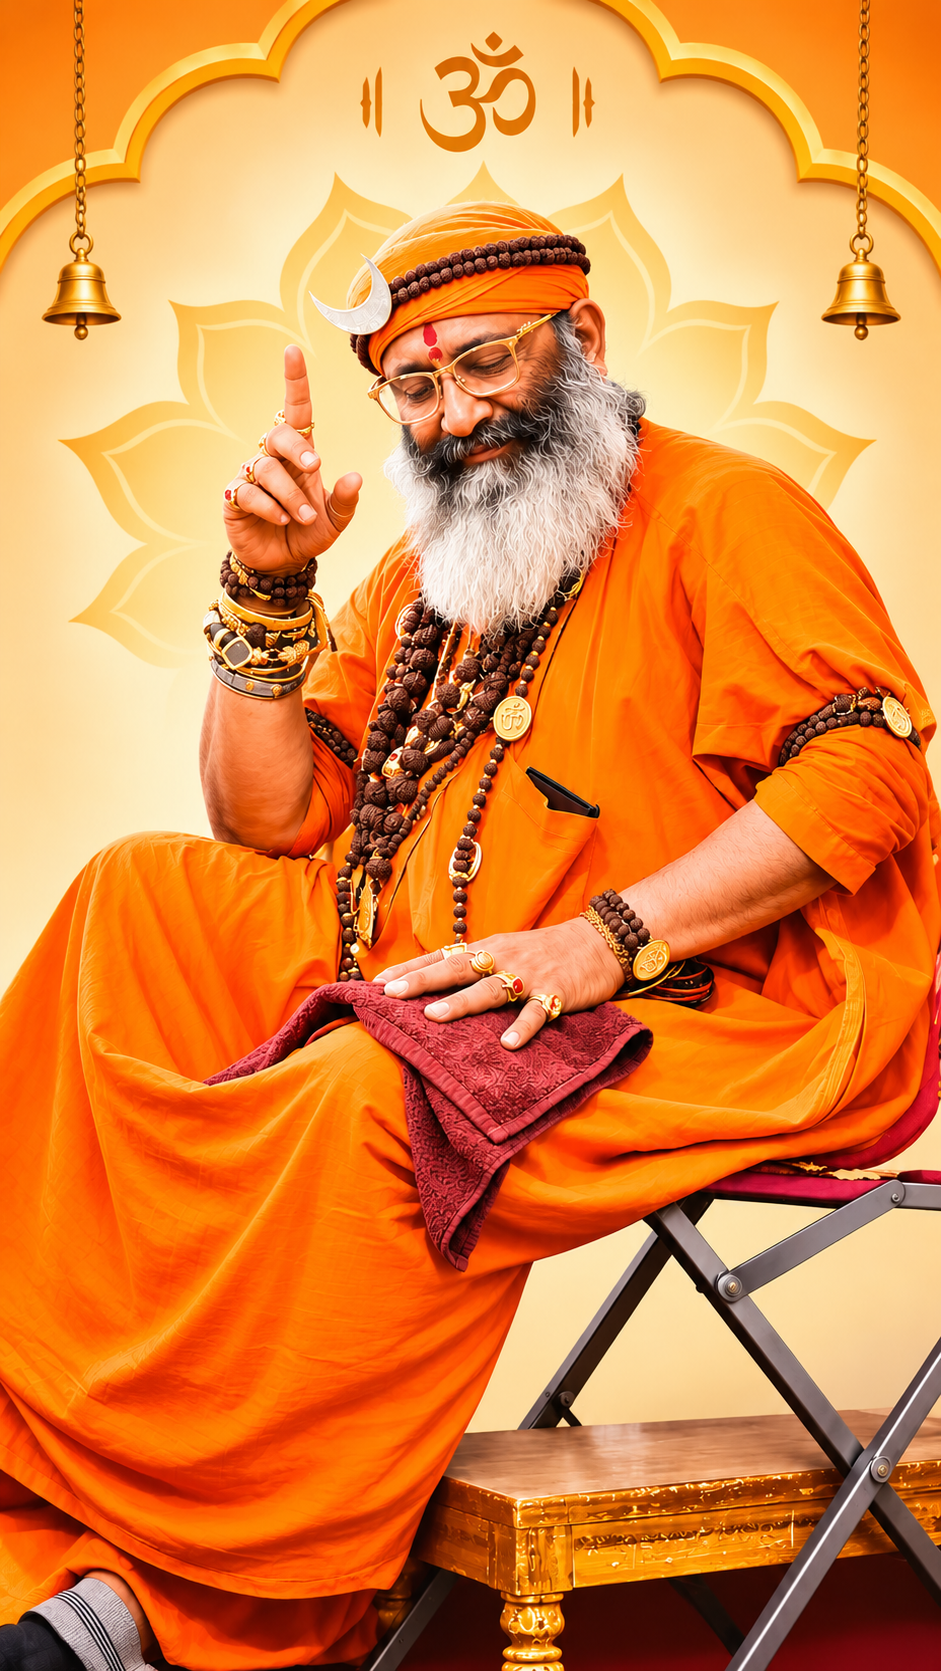
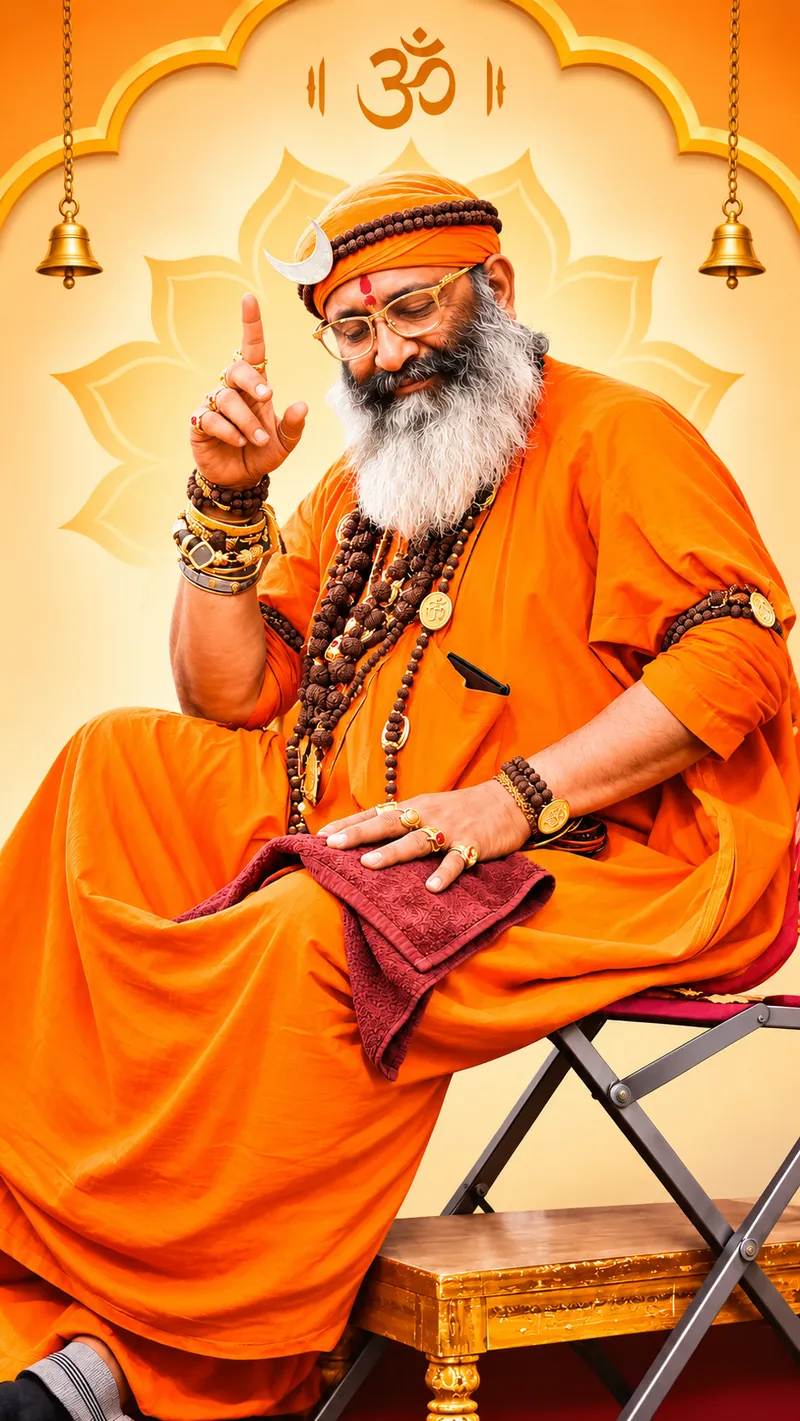
Events page: code review fixes, optimized images, maroon ring on annual cards
- Annual functions: hover and keyboard focus tracked separately, previous slide kept in state, stop button (shown on Tab), posters load eagerly, arrows below the cards up to 1199px, large-card breakpoint at 1320px, maroon ring on the nameplates
- next.config.js: long asset cache header only in production
- Images: annual posters, regular event pictures and banner artwork re-encoded (13.5 MB to 0.8 MB, no visible loss), picture size attributes updated

diff --git a/app/karyakram/_components/AnnualEvents/AnnualEvents.js b/app/karyakram/_components/AnnualEvents/AnnualEvents.js
@@ -1,5 +1,5 @@
 'use client'
-import { useEffect, useRef, useState } from "react"
+import { useEffect, useState } from "react"
 import { SectionHead } from "../../../_shared/_components/Field/Field"
 import field from "../../../_shared/_components/Field/Field.module.css"
 import { cx, useReducedMotion } from "../../../_shared/_components/utils"
@@ -7,18 +7,12 @@ import styles from "./AnnualEvents.module.css"
 
 /* =============================================================================
    Karyakram: the festivals the math celebrates every year, as a carousel on the maroon field: the whole poster of
-   the festival (nothing cut off) in a thick gold border with a black gap inside it, and its title on a nameplate in the same make (gold border, black
+   the festival (nothing cut off) in a thick gold border with a maroon gap inside it, and its title on a nameplate in the same make (gold border, maroon
    gap, gold plate) with a round medallion (a Font Awesome icon) on its top edge, half over the poster's lower edge. All cards are the same size, side by side: the one in focus in the middle with the previous and the next one
    on either side; every step moves them all along, round and round.
    It moves on by itself every 5 seconds (not while a mouse pointer or the keyboard focus is on it: a touch or a click does not hold it, and not at all if the visitor
    asks for reduced motion), and has an arrow at each side on a desktop (a pair below the cards on a tablet and a phone). 'use client' is needed for that.
    Styles: AnnualEvents.module.css.
-
-   Four more festivals have posters but are not shown yet (add them to FESTIVALS to show them):
-     event-4.webp  श्री गुरुपौर्णिमा उत्सव
-     event-5.webp  श्री जनू काका जयंती आणि पुण्यतिथी
-     event-6.webp  श्री मधू बुवा जयंती आणि पुण्यतिथी
-     event-7.webp  श्री शुभांगी माई वाढदिवस
    ========================================================================== */
 
 const FESTIVALS = [
@@ -44,21 +38,24 @@ function isJump(index, from, to, count) {
 }
 
 export default function AnnualEvents() {
-    const [active, setActive] = useState(1)   // the second festival (shankar) opens in the middle: swami on its left, datta on its right
-    const [paused, setPaused] = useState(false)
+    // the slide in the middle, and the one that was there before it (to tell which card jumps from one side to the other)
+    const [{ active, before }, setPosition] = useState({ active: 1, before: 1 })   // the second festival (shankar) opens in the middle: swami on its left, datta on its right
+    // three separate reasons to hold the slides still: a mouse over the carousel, the keyboard focus in it, the visitor's own stop button
+    const [hovered, setHovered] = useState(false)
+    const [focused, setFocused] = useState(false)
+    const [stopped, setStopped] = useState(false)
     const reduced = useReducedMotion()
-    const before = useRef(active)         // the slide shown before this one (to tell which card jumps from one side to the other)
-    useEffect(() => { before.current = active }, [active])
     const last = FESTIVALS.length - 1
+    const playing = !(hovered || focused || stopped || reduced)
 
-    const go = (index) => setActive(index < 0 ? last : index > last ? 0 : index)
+    const show = (next) => setPosition((p) => ({ active: next < 0 ? last : next > last ? 0 : next, before: p.active }))
 
-    // advance every 5 seconds; the timer restarts whenever the slide changes (an arrow, a dot or the timer itself)
+    // advance every 5 seconds; the timer restarts whenever the slide changes (an arrow or the timer itself)
     useEffect(() => {
-        if (paused || reduced) return
-        const timer = setTimeout(() => setActive((i) => (i === last ? 0 : i + 1)), INTERVAL)
+        if (!playing) return
+        const timer = setTimeout(() => show(active + 1), INTERVAL)
         return () => clearTimeout(timer)
-    }, [active, paused, reduced, last])
+    }, [active, playing])
 
     return (
         <section className={`${field.field} ${styles.annual}`}>
@@ -71,11 +68,17 @@ export default function AnnualEvents() {
                     role="region"
                     aria-roledescription="carousel"
                     aria-label="वार्षिक उत्सव"
-                    onPointerEnter={(e) => e.pointerType === "mouse" && setPaused(true)}
-                    onPointerLeave={(e) => e.pointerType === "mouse" && setPaused(false)}
-                    onFocus={(e) => e.target.matches(":focus-visible") && setPaused(true)}
-                    onBlur={() => setPaused(false)}
+                    onPointerEnter={(e) => e.pointerType === "mouse" && setHovered(true)}
+                    onPointerLeave={(e) => e.pointerType === "mouse" && setHovered(false)}
+                    onFocus={(e) => e.target.matches(":focus-visible") && setFocused(true)}
+                    onBlur={() => setFocused(false)}
                 >
+                    {/* the visitor's own stop button (it appears when Tab reaches it), as on the home slideshow */}
+                    {!reduced && (
+                        <button type="button" className="pause-btn" aria-pressed={stopped} onClick={() => setStopped((s) => !s)}>
+                            स्लाइडशो थांबवा
+                        </button>
+                    )}
                     {/* the frame holds the stage and the two arrows, one at each side. In the stage every card sits in the same
                         place; its place (centre, left, right) moves it aside */}
                     <div className={styles.frame}>
@@ -85,7 +88,7 @@ export default function AnnualEvents() {
                                     key={festival.title}
                                     className={styles.card}
                                     data-place={placeOf(index, active, FESTIVALS.length)}
-                                    data-jump={isJump(index, before.current, active, FESTIVALS.length)}
+                                    data-jump={isJump(index, before, active, FESTIVALS.length)}
                                     role="group"
                                     aria-roledescription="slide"
                                     aria-label={`${index + 1} / ${FESTIVALS.length}`}
@@ -93,7 +96,7 @@ export default function AnnualEvents() {
                                 >
                                     {/* the poster carries the festival's own lettering; the title below says it in text */}
                                     <div className={styles.posterBox}>
-                                        <img className={styles.poster} src={festival.img} alt="" width="942" height="1670" loading="lazy" />
+                                        <img className={styles.poster} src={festival.img} alt="" width="800" height="1421" />
                                     </div>
                                     <h3 className={styles.title} lang="mr">
                                         {/* the medallion: sits on the nameplate's top edge */}
@@ -103,11 +106,11 @@ export default function AnnualEvents() {
                                 </article>
                             ))}
                         </div>
-                        <button type="button" className={cx(styles.arrow, styles.arrowPrev)} onClick={() => go(active - 1)} aria-label="मागील उत्सव">
+                        <button type="button" className={cx(styles.arrow, styles.arrowPrev)} onClick={() => show(active - 1)} aria-label="मागील उत्सव">
                             {/* the site's trimmed icon font has no left arrow: the right arrow, mirrored in the CSS */}
                             <i className={cx("fas fa-arrow-right", styles.flip)} aria-hidden="true"></i>
                         </button>
-                        <button type="button" className={cx(styles.arrow, styles.arrowNext)} onClick={() => go(active + 1)} aria-label="पुढील उत्सव">
+                        <button type="button" className={cx(styles.arrow, styles.arrowNext)} onClick={() => show(active + 1)} aria-label="पुढील उत्सव">
                             <i className="fas fa-arrow-right" aria-hidden="true"></i>
                         </button>
                     </div>

diff --git a/app/karyakram/_components/AnnualEvents/AnnualEvents.module.css b/app/karyakram/_components/AnnualEvents/AnnualEvents.module.css
@@ -1,15 +1,15 @@
 /* =============================================================================
    Karyakram — the annual festivals: a carousel on the maroon field. Each card: the whole poster (9:16, nothing cut
-   off) in a thick gold border with a black gap inside it, and its title in black on a solid gold plaque that overlaps the poster's lower edge.
+   off) in a thick gold border with a maroon gap inside it, and its title in black on a solid gold plaque that overlaps the poster's lower edge.
    All cards are the same size, side by side with a gap between: the one in focus in the middle, the previous and the
-   next one on either side; every step moves them all along. An arrow at each side on a desktop, a pair below the cards on a tablet and a phone. On a phone the side cards are cut
+   next one on either side; every step moves them all along. An arrow at each side from 1200px wide, a pair below the cards on anything narrower. On a phone the side cards are cut
    off by the screen's edge. The maroon field and heading are shared: see _shared/_components/Field/Field.module.css.
    ========================================================================== */
 section.annual {
   --annual-card-width: 300px;            /* every card (the poster is 9:16) */
   --annual-gap: var(--space-5);          /* between the cards */
   --annual-border: 5px;                  /* the thick gold border */
-  --annual-gap-in: 6px;                  /* the black gap inside it */
+  --annual-gap-in: 6px;                  /* the maroon gap inside it */
   --annual-plaque: 124px;                /* the nameplate's height: the same for every card */
   --annual-medal: 48px;                  /* the medallion on the nameplate */
   --annual-lap: calc(var(--annual-plaque) / 2);   /* half of it lies over the poster, half below */
@@ -18,6 +18,7 @@ section.annual {
 }
 
 .carousel {
+  position: relative;                    /* the stop button is placed in it */
   margin: 0 auto;
 }
 
@@ -81,7 +82,7 @@ section.annual .card[data-place="hidden"] {
   height: auto;                          /* the poster's own proportions: nothing is cut off */
 }
 
-/* ---- Title: a nameplate in the same make as the poster's frame: a thick gold border, a black gap, then a solid gold
+/* ---- Title: a nameplate in the same make as the poster's frame: a thick gold border, a maroon gap, then a solid gold
    plate with the title in black. Narrower than the card, half over the poster's lower edge, half below it. All plates
    are the same height and end on the same line, whatever the length of the titles. ---- */
 .title {
@@ -91,7 +92,7 @@ section.annual .card[data-place="hidden"] {
   padding: var(--annual-gap-in);
   border: var(--annual-border) solid var(--c-gold);
   border-radius: 14px;
-  background-color: var(--c-black);
+  background-color: var(--c-maroon);
 }
 
 /* the medallion: a maroon circle with a thick gold border and a gold icon, centred on the nameplate's top edge */
@@ -130,8 +131,8 @@ section.annual .card[data-place="hidden"] {
   text-wrap: balance;
 }
 
-/* ---- Wide screens: bigger cards, the same gap, still clear of the arrows (the container is wider from 1400px) ---- */
-@media (min-width: 1400px) {
+/* ---- Wide screens (the page container is 1320px wide from 1320px): bigger cards, the same gap, still clear of the arrows ---- */
+@media (min-width: 1320px) {
   section.annual {
     --annual-card-width: 340px;
   }
@@ -182,9 +183,10 @@ section.annual .card[data-place="hidden"] {
   outline-offset: var(--line-width);
 }
 
-/* ---- Tablet and phone: the arrows move from the sides to a row of their own below the cards, side by side in the
-   middle; desktop (992px and up) keeps them at the sides ---- */
-@media (max-width: 991px) {
+/* ---- Tablet, phone and small laptop (up to 1199px): the arrows move from the sides to a row of their own below the
+   cards, side by side in the middle (at the sides they would sit on the cards there: the page container is only 960px
+   wide up to 1199px); from 1200px they stay at the sides ---- */
+@media (max-width: 1199px) {
   .frame {
     display: flex;
     flex-wrap: wrap;

diff --git a/app/karyakram/_components/RegularEvents/RegularEvents.js b/app/karyakram/_components/RegularEvents/RegularEvents.js
@@ -42,7 +42,7 @@ export default function RegularEvents() {
                             <article className={`${field.card} ${styles.card}`}>
                                 <div className={styles.imgBox}>
                                     <div className={styles.img}>
-                                        <img src={event.img} alt="" width="1672" height="941" loading="lazy" />
+                                        <img src={event.img} alt="" width="1200" height="675" loading="lazy" />
                                     </div>
                                     {/* the medallion: sits on the picture's lower edge */}
                                     <span className={styles.medal} aria-hidden="true"><i className={event.icon}></i></span>

diff --git a/next.config.js b/next.config.js
@@ -10,7 +10,10 @@ const nextConfig = {
     poweredByHeader: false,          // no "X-Powered-By: Next.js" on every response
     async headers() {
         return [
-            { source: "/assets/:path*", headers: [{ key: "Cache-Control", value: ASSET_CACHE }] },
+            // only in production: while developing, a replaced picture or font must show at once
+            ...(process.env.NODE_ENV === "production"
+                ? [{ source: "/assets/:path*", headers: [{ key: "Cache-Control", value: ASSET_CACHE }] }]
+                : []),
             { source: "/:path*", headers: [{ key: "X-Content-Type-Options", value: "nosniff" }] },
         ]
     },
